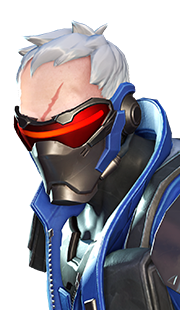
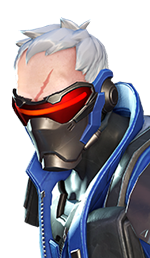
Add a small portrait for each hero and make normal portraits slightly smaller

diff --git a/js/main.js b/js/main.js
@@ -113,7 +113,7 @@ OWI.directive("update", ["Data", "StorageService", function(Data, StorageService
       $scope.preview = false;
 
       $scope.checked = Data.checked[$scope.data.id];
-      
+
       $scope.viewMode = StorageService.getSetting('viewMode') || 'item-type';
       $scope.viewModes = {
         'item-type': 'By item type',
@@ -123,7 +123,7 @@ OWI.directive("update", ["Data", "StorageService", function(Data, StorageService
         $scope.viewMode = viewMode;
         StorageService.setSetting('viewMode', viewMode);
       }
-      
+
       $scope.onSelect = function() {
         Data.checked[$scope.data.id] = $scope.checked;
         StorageService.setData(Data.checked);
@@ -275,7 +275,7 @@ OWI.filter('heroPortraitUrl', function () {
     if (specialHeroes[hero]) {
       hero = specialHeroes[hero];
     }
-    return './resources/' + hero + '/portrait.png';
+    return './resources/' + hero + '/portrait-small.png';
   }
 });
 OWI.filter('itemPrice', function () {
@@ -286,7 +286,7 @@ OWI.filter('itemPrice', function () {
     // some icons have a character, quality and hence price assigned even though they are not buyable
     // shortcut those out
     if (type == 'icon') return '';
-    
+
     var prices = {
       common: 25,
       rare: 75,
